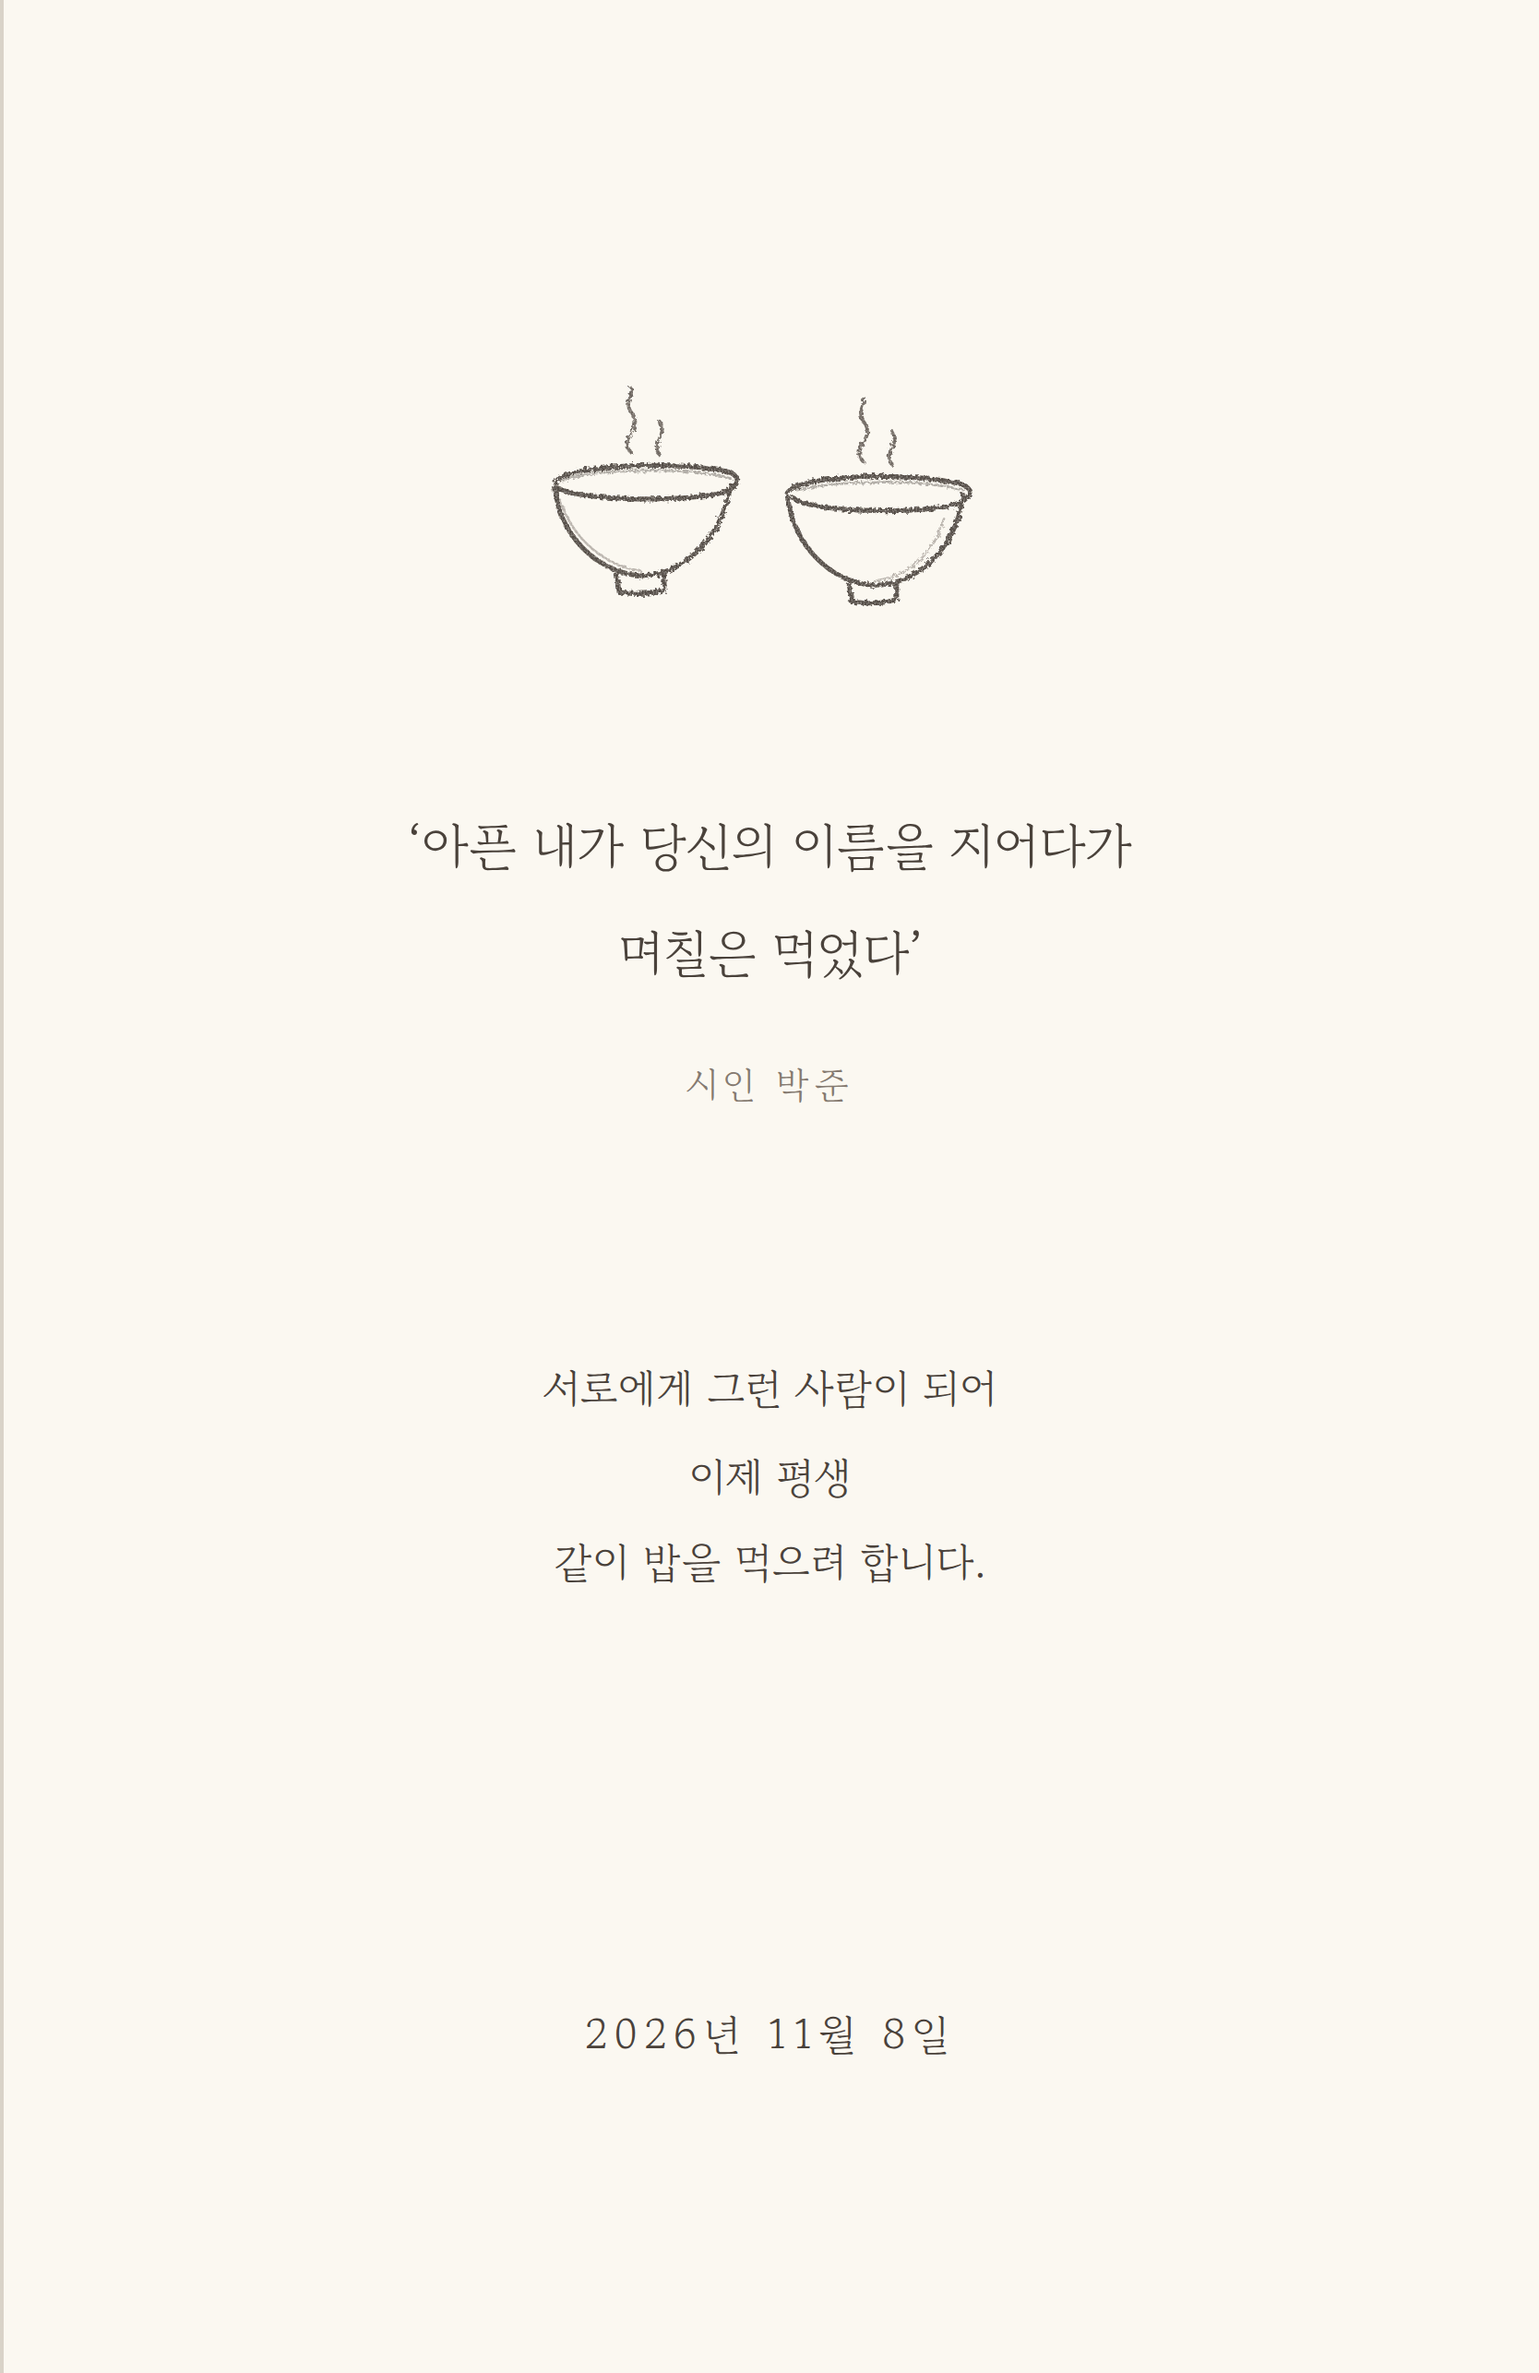
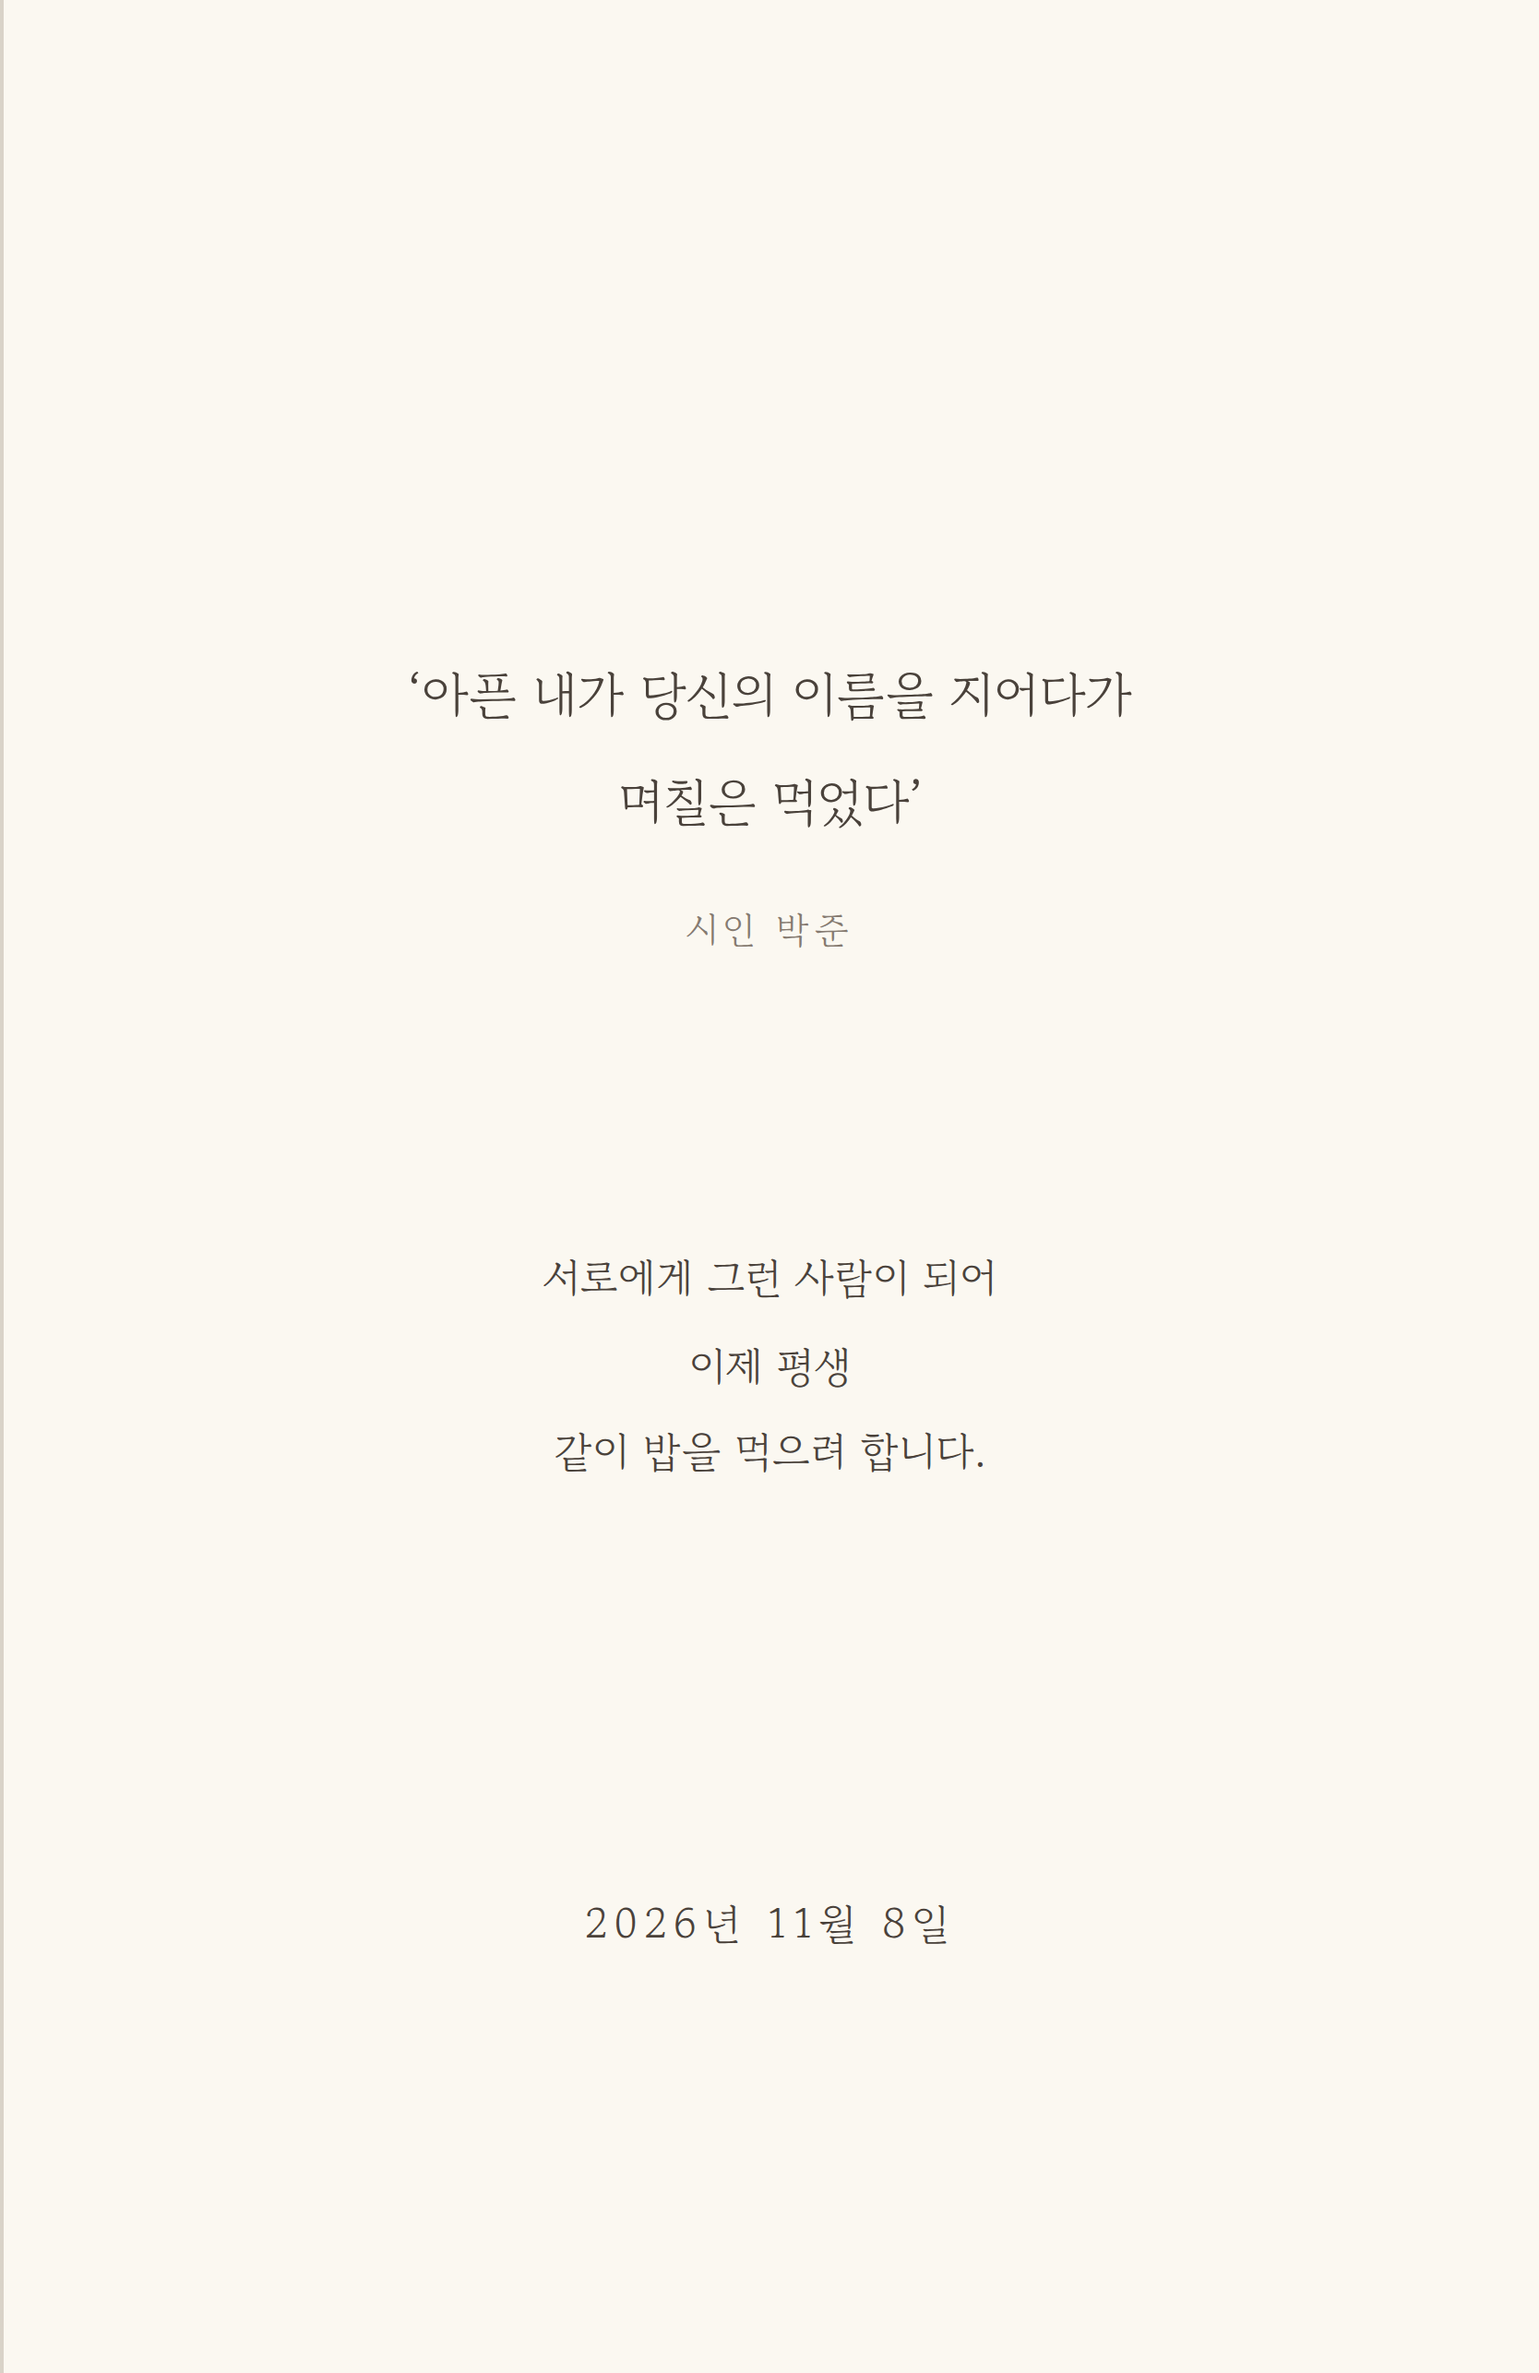
Remove all illustrations and rebalance front layout
Claude-Session: https://claude.ai/code/session_01H9C5cLBXSHba1oAotnSY9z

diff --git a/invitation.html b/invitation.html
@@ -39,13 +39,10 @@
     text-align: center;
     word-break: keep-all;
   }
-  .sketch path { fill: none; stroke: var(--ink); stroke-linecap: round; stroke-linejoin: round; }
 
   /* ── 앞면 ── */
-  .front { padding: 27mm 14mm 22mm; }
-  .front .bowls { width: 34mm; }
+  .front { padding: 46mm 14mm 30mm; }
   .poem {
-    margin-top: 13mm;
     font-size: 10.5pt; line-height: 2.05; letter-spacing: -.01em;
   }
   .poet {
@@ -53,7 +50,7 @@
     font-size: 7.5pt; letter-spacing: .12em; color: var(--ink-soft);
   }
   .front .body {
-    margin-top: 17mm;
+    margin-top: 20mm;
     font-size: 8.6pt; line-height: 2.05;
   }
   .front .body p + p { margin-top: 4.2mm; }
@@ -88,51 +85,12 @@
 </style>
 </head>
 <body>
-<svg width="0" height="0" style="position:absolute" aria-hidden="true">
-  <defs>
-    <!-- 연필 결: 선을 살짝 흔들고 거칠게 -->
-    <filter id="pencil" x="-10%" y="-10%" width="120%" height="120%">
-      <feTurbulence type="fractalNoise" baseFrequency="1.1" numOctaves="2" seed="4" result="n"/>
-      <feDisplacementMap in="SourceGraphic" in2="n" scale="1.6" result="d"/>
-      <feTurbulence type="fractalNoise" baseFrequency="2.4" numOctaves="1" seed="9" result="g"/>
-      <feColorMatrix in="g" type="matrix" values="0 0 0 0 0  0 0 0 0 0  0 0 0 0 0  0 0 0 -1.1 1.45" result="mask"/>
-      <feComposite in="d" in2="mask" operator="in"/>
-    </filter>
-  </defs>
-</svg>
-
 <div class="sheet">
 
   <!-- 앞면 -->
   <section>
     <div class="side-label">FRONT</div>
     <div class="card front">
-      <svg class="sketch bowls" viewBox="4 0 200 100" filter="url(#pencil)" aria-label="밥그릇 두 개 스케치">
-        <!-- 왼쪽 그릇 -->
-        <g stroke-width="2" opacity=".95">
-          <path d="M14 45 C 16 38, 60 35, 86 40 C 94 42, 92 48, 80 50 C 60 53, 24 52, 15 47"/>
-          <path d="M17 44 C 30 39, 70 38, 88 43" opacity=".45" stroke-width="1"/>
-          <path d="M14 47 C 16 68, 32 82, 49 84 C 66 85, 84 70, 88 46"/>
-          <path d="M16 52 C 22 70, 36 80, 50 82" opacity=".4" stroke-width="1"/>
-          <path d="M40 84 L 41 91 C 48 92, 54 92, 60 90 L 60 83"/>
-        </g>
-        <!-- 오른쪽 그릇 -->
-        <g stroke-width="2" opacity=".95" transform="translate(8 0)">
-          <path d="M104 49 C 108 42, 150 40, 176 45 C 184 47, 182 53, 170 55 C 150 58, 114 57, 106 51"/>
-          <path d="M108 48 C 124 44, 160 43, 178 48" opacity=".45" stroke-width="1"/>
-          <path d="M104 51 C 107 72, 122 86, 139 88 C 157 89, 175 74, 178 50"/>
-          <path d="M170 60 C 166 74, 156 84, 142 86" opacity=".4" stroke-width="1"/>
-          <path d="M130 88 L 131 95 C 138 96, 144 96, 150 94 L 150 87"/>
-        </g>
-        <!-- 김 -->
-        <g stroke-width="1.5" opacity=".8">
-          <path d="M46 32 C 40 26, 52 22, 46 15 C 43 11, 47 8, 46 5"/>
-          <path d="M58 33 C 54 28, 62 25, 58 19"/>
-          <path transform="translate(8 0)" d="M136 36 C 130 30, 142 26, 136 19 C 133 15, 137 12, 136 9"/>
-          <path transform="translate(8 0)" d="M148 37 C 144 32, 152 29, 148 23"/>
-        </g>
-      </svg>
-
       <div class="poem">
         ‘아픈 내가 당신의 이름을 지어다가<br>
         며칠은 먹었다’
